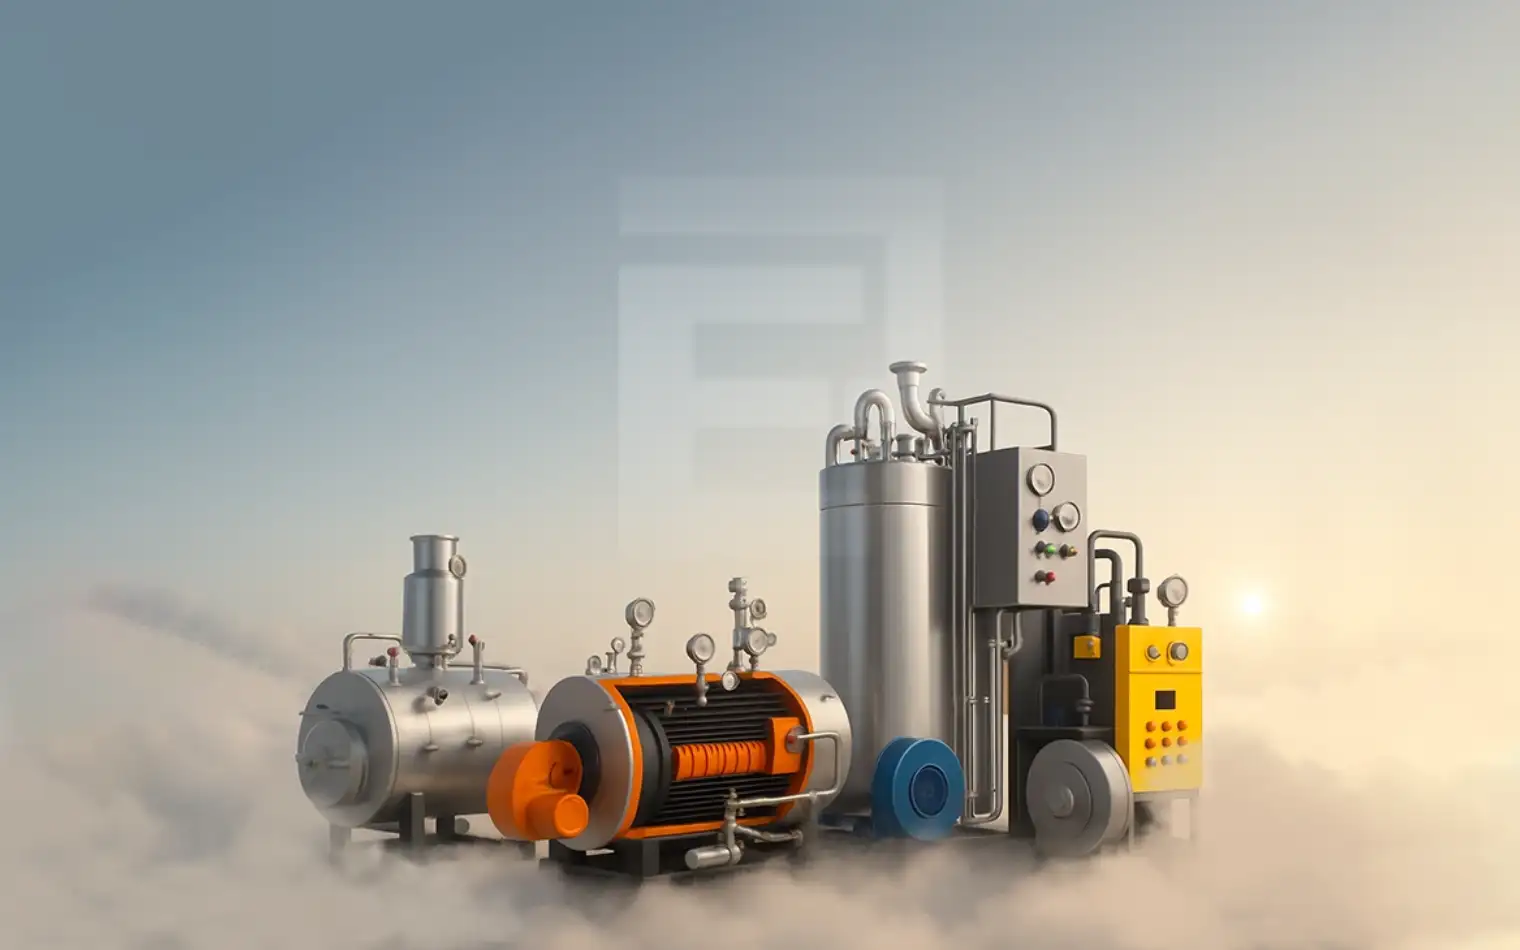
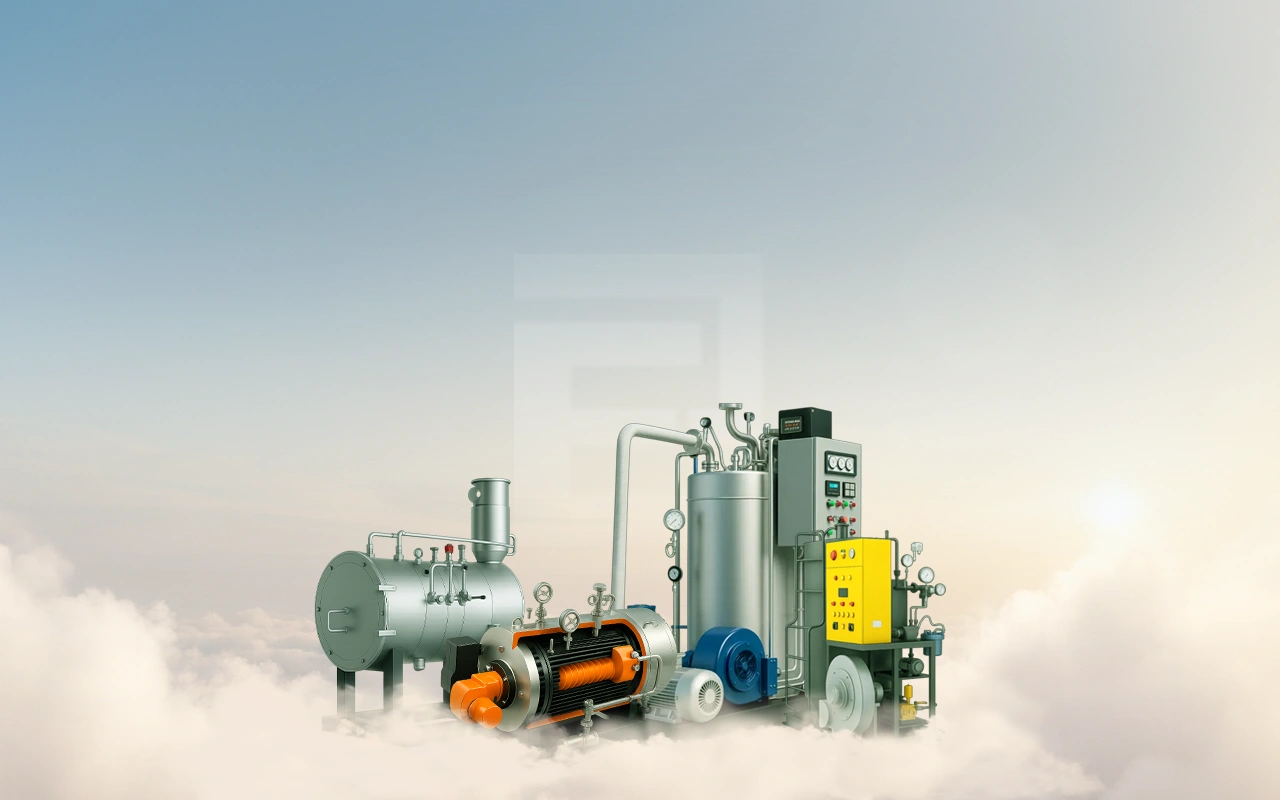
seo optimization added

diff --git a/src/components/ProductSlider.jsx b/src/components/ProductSlider.jsx
@@ -118,7 +118,10 @@ const ProductSlider = () => {
 
       {/* Call-to-Action Buttons */}
       <div className=" z-20 flex items-center gap-4">
-        <Link href={"/all-products"} className=" py-3 px-8   font-medium border hover:border-gray-300/60 bg-transparent border-[#DC2621] text-[#DC2621] hover:text-white rounded hover:bg-[#DC2621] transition-colors  duration-300 md:text-base text-sm">
+        <Link
+          href={"/all-products"}
+          className=" py-3 px-8   font-medium border hover:border-gray-300/60 bg-transparent border-[#DC2621] text-[#DC2621] hover:text-white rounded hover:bg-[#DC2621] transition-colors  duration-300 md:text-base text-sm"
+        >
           View All Products
         </Link>
       </div>
@@ -126,11 +129,17 @@ const ProductSlider = () => {
       {/* Custom Navigation Buttons */}
       <div className="absolute top-1/2 -translate-y-1/2 right-4 md:right-8 lg:right-12 z-20 flex flex-col gap-3">
         {/* Next Button */}
-        <button className="swiper-button-next-custom cursor-pointer border border-gray-200/80 bg-[#DC2621] text-white rounded-full w-11 h-11 flex items-center justify-center shadow-md hover:bg-black transition-colors">
+        <button
+          className="swiper-button-next-custom cursor-pointer border border-gray-200/80 bg-[#DC2621] text-white rounded-full w-11 h-11 flex items-center justify-center shadow-md hover:bg-black transition-colors"
+          aria-label="Next slide"
+        >
           <BsArrowRight className="text-xl" />
         </button>
-        {/* Previous Button */}
-        <button className="swiper-button-prev-custom cursor-pointer bg-[#DC2621] text-white rounded-full border border-gray-200/80 w-11 h-11 flex items-center justify-center shadow-md hover:bg-black transition-colors">
+
+        <button
+          className="swiper-button-prev-custom cursor-pointer bg-[#DC2621] text-white rounded-full border border-gray-200/80 w-11 h-11 flex items-center justify-center shadow-md hover:bg-black transition-colors"
+          aria-label="Previous slide"
+        >
           <BsArrowLeft className="text-xl" />
         </button>
       </div>

diff --git a/src/components/IndustryWeServe.jsx b/src/components/IndustryWeServe.jsx
@@ -100,9 +100,9 @@ const IndustryWeServe = () => {
                 <div className="grid grid-cols-1 lg:grid-cols-12 ">
                   <div className="lg:col-span-5 flex flex-col justify-between p-6 md:p-20">
                     <div>
-                      <h5 className="text-3xl md:text-4xl font-bold mb-4 hover:text-[#DC2621] transition-colors">
+                      <h3 className="text-3xl md:text-4xl font-bold mb-4 hover:text-[#DC2621] transition-colors">
                         {product.title}
-                      </h5>
+                      </h3>
                       <p className=" text-sm md:text-base md:leading-relaxed">
                         {product.description}
                       </p>

diff --git a/src/components/Hero.jsx b/src/components/Hero.jsx
@@ -5,7 +5,7 @@ export default function BackgroundVideoSection() {
   return (
     <section
       className="relative h-screen w-full overflow-hidden  bg-cover bg-center"
-      style={{ backgroundImage: "url(/assets/home-bg.png)" }}
+      style={{ backgroundImage: "url(/assets/home-bg.webp)" }}
     >
       {/* Background Video */}
 
